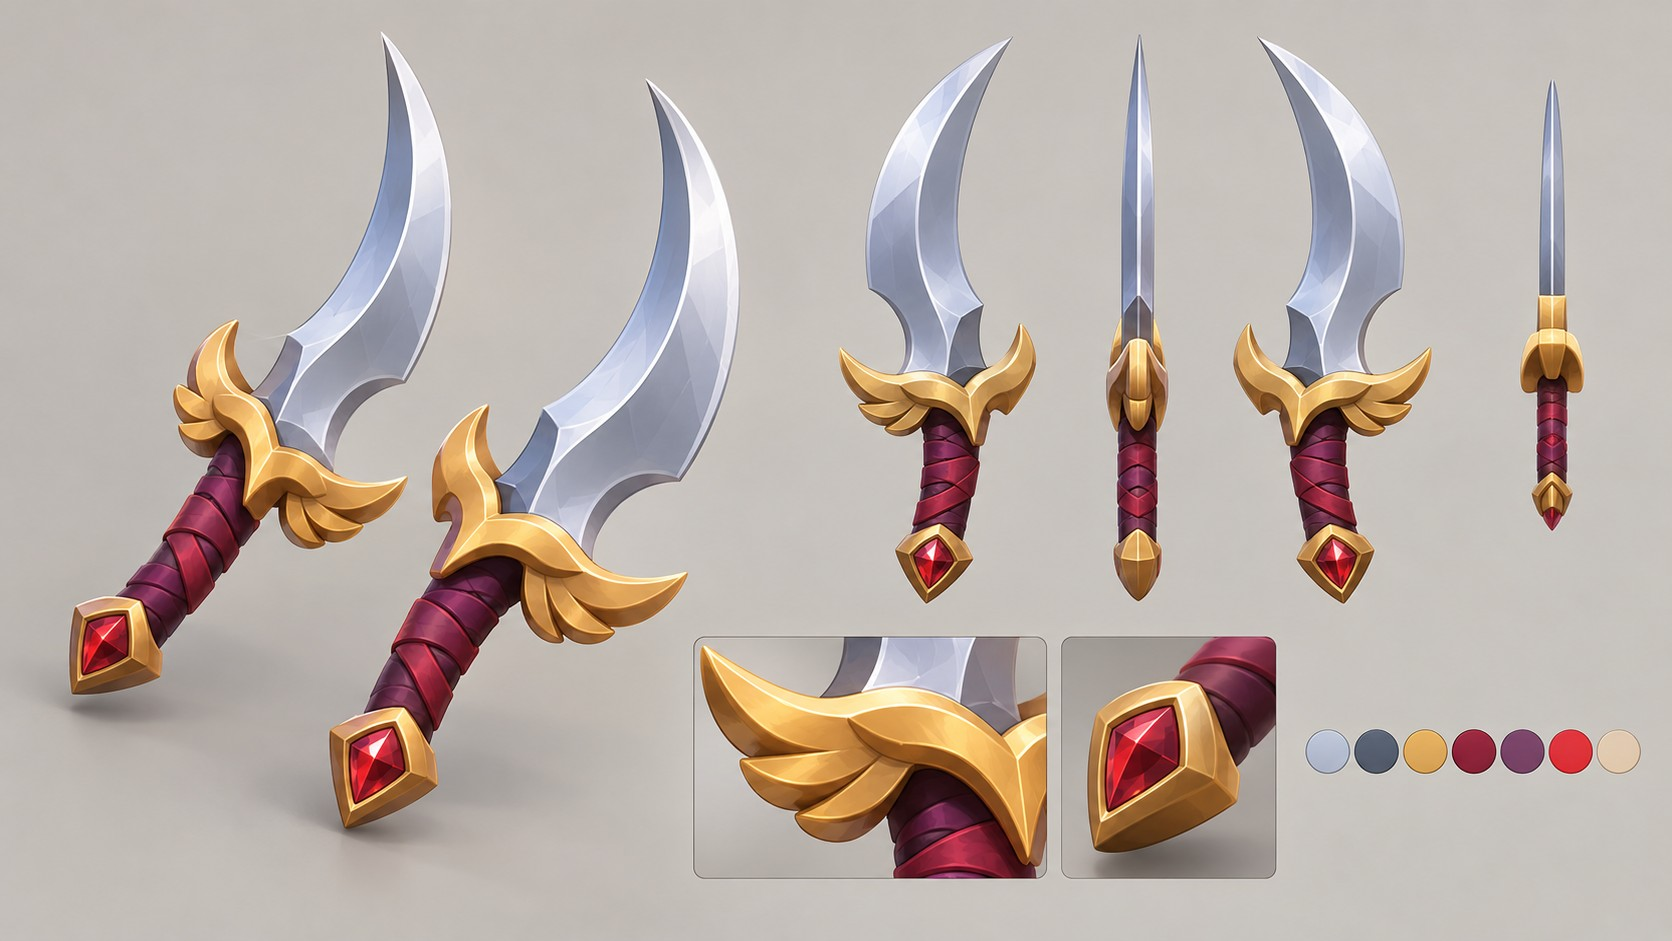
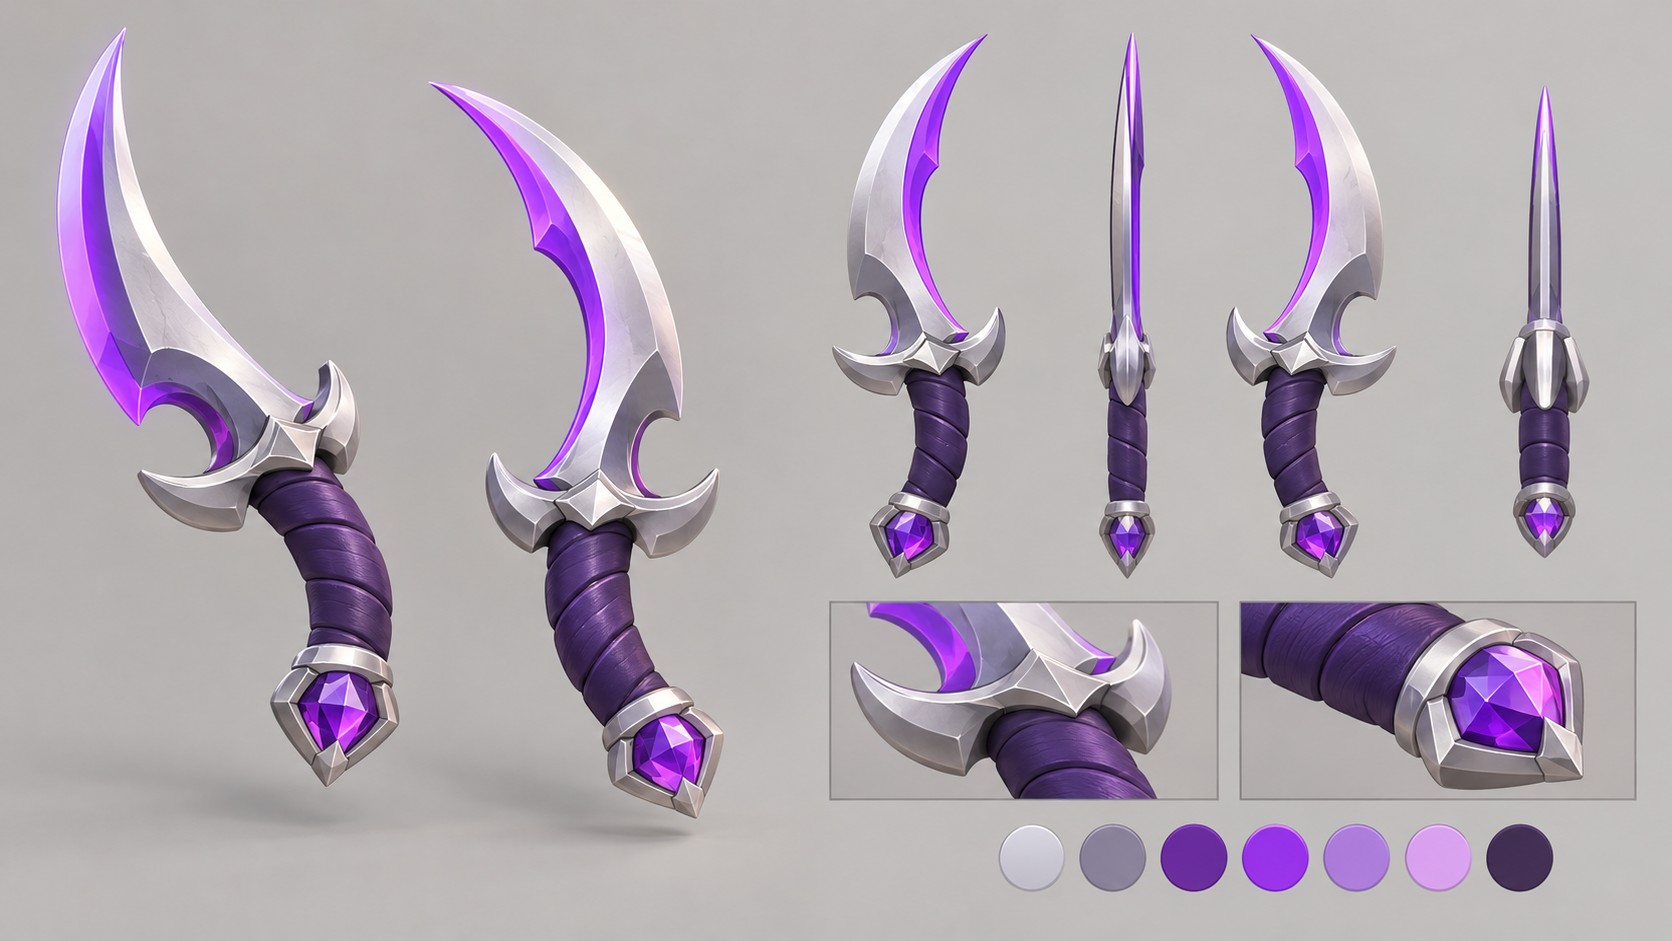
Weapon sheets in class colours: a red greatsword, purple daggers
Owner: green for archer, blue for arcanist, red for sword, purple for
daggers, and the sword more of a greatsword. The bow and staff already
match; the Warden is now a red two-handed greatsword with no shield and
the Duelist's daggers are purple.

diff --git a/docs/WORLD.md b/docs/WORLD.md
@@ -39,10 +39,11 @@ all); Second Wind stays a Mythic every class can draw.
 
 **Weapon concept sheets** (Codex, 2026-10-23), in `assets/concepts/weapons/`,
 each a model sheet (hero render, front / side / back / top, details,
-palette) to be built as a 3D model: `ranger_bow` (leaf-tipped longbow and
-arrow), `arcanist_staff` (crescent staff with a cyan orb and three orbiting
-orbs, for Homing Orbs), and both melee options while the class is open —
-`warden_sword_shield` and `duelist_daggers`.
+palette) to be built as a 3D model. Each class has its colour (owner):
+`ranger_bow` green (leaf-tipped longbow and arrow), `arcanist_staff` blue
+(crescent staff with a cyan orb and three orbiting orbs, for Homing Orbs),
+and both melee options while the class is open — `warden_greatsword` red
+(no shield) and `duelist_daggers` purple.
 
 **Alternative to the Warden:** a **Duelist** — fast dagger strikes, crits,
 evasion — if the unlockable melee class should play faster. *Open.*
